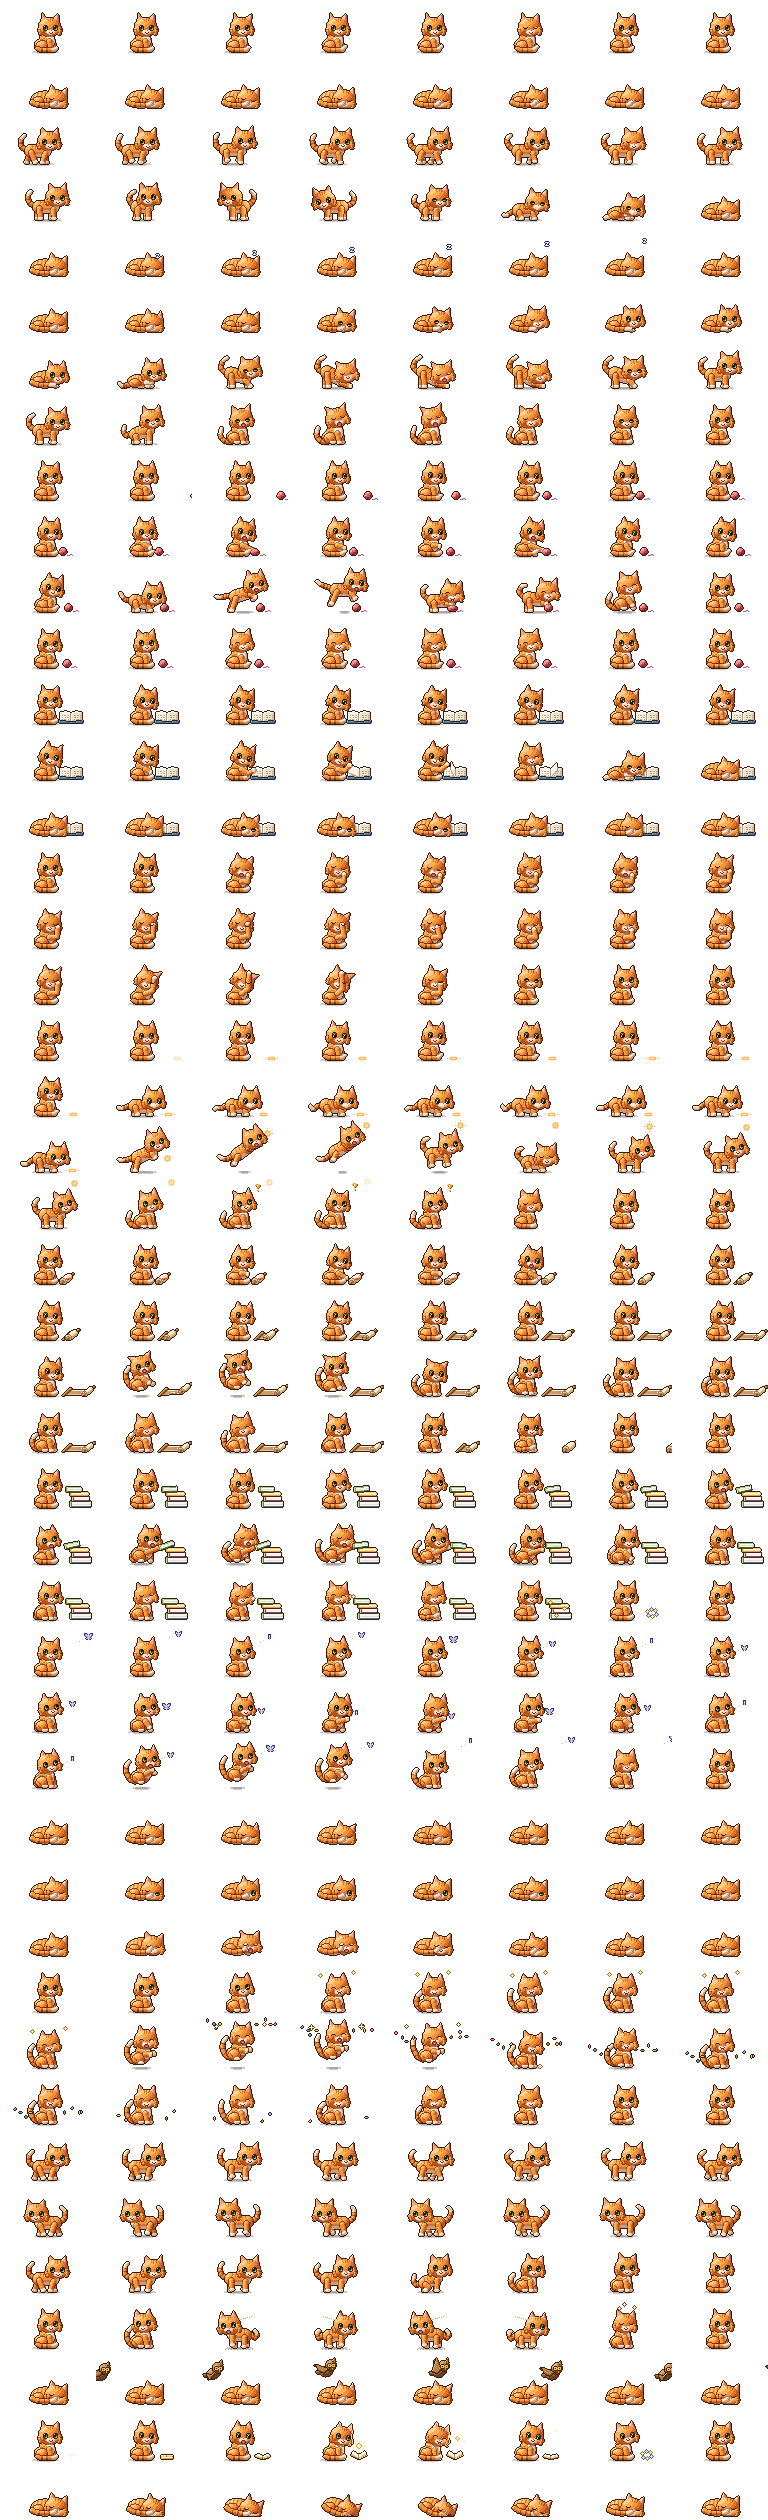
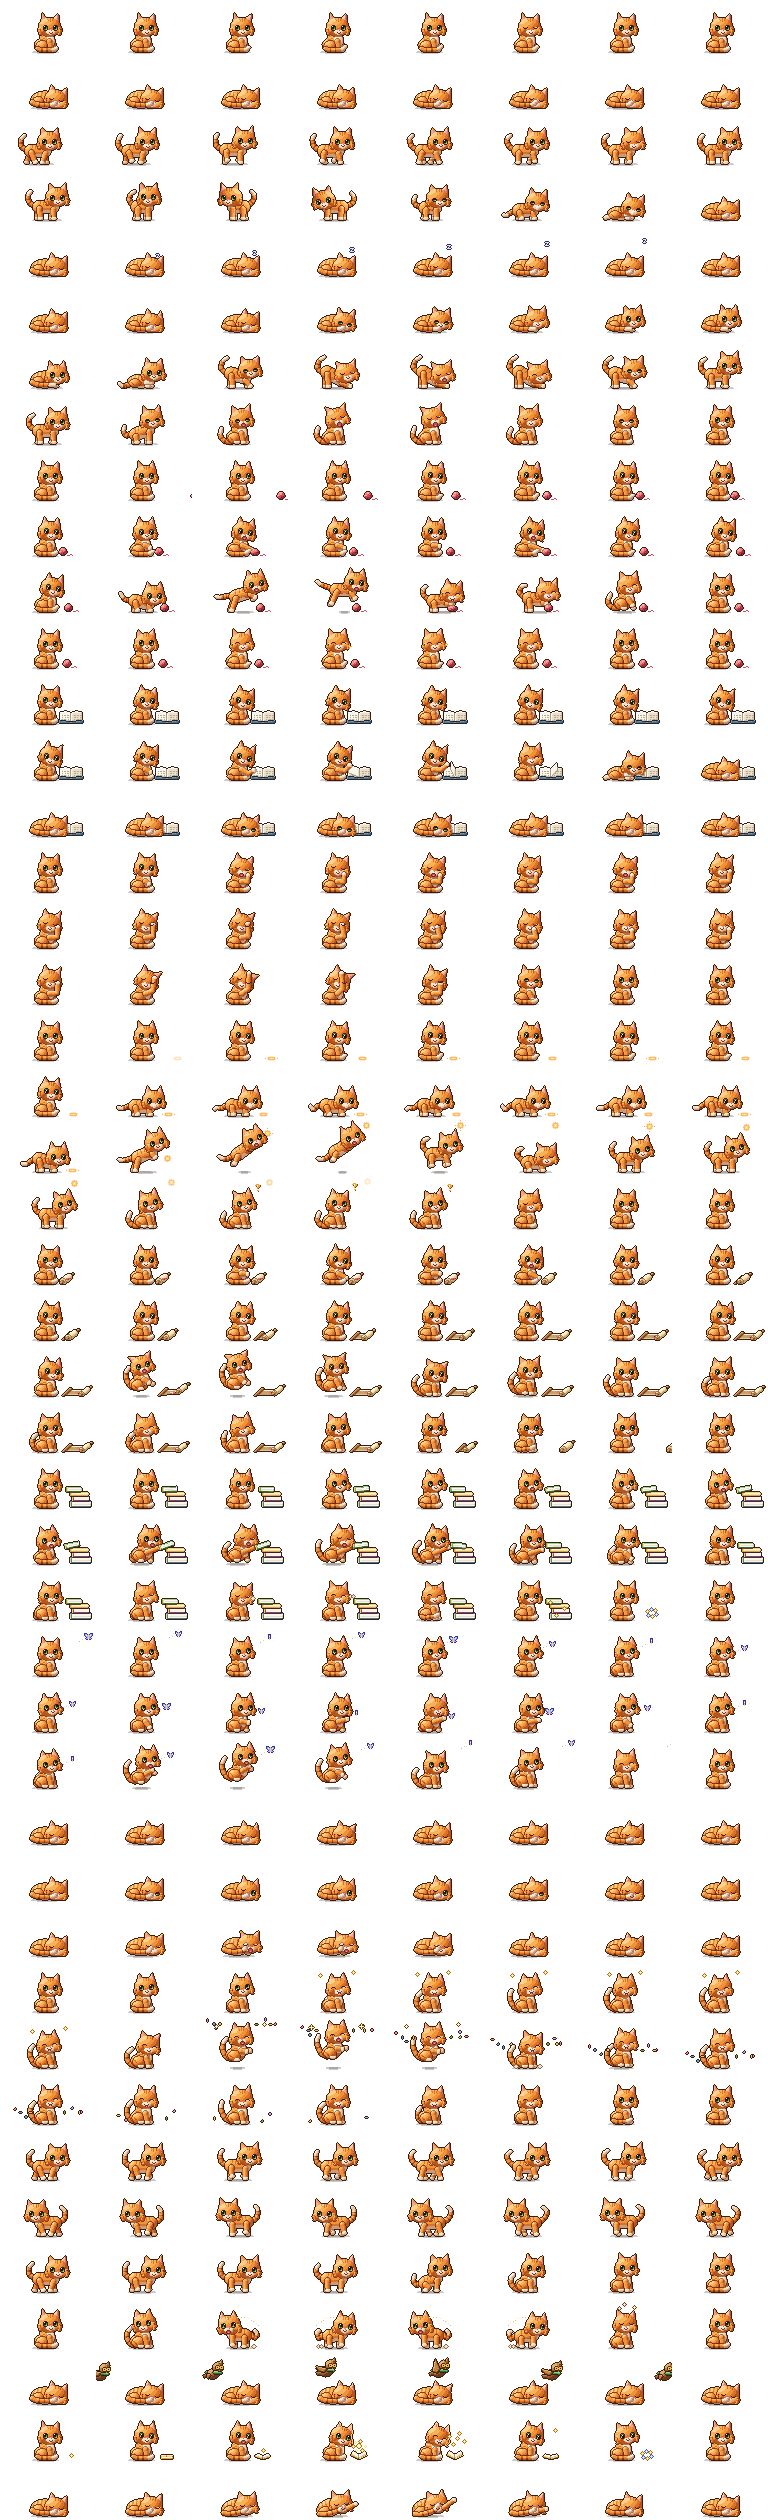
Gato Aventureiro: as 12 cenas e os 4 segredos desenhados; sombra do gato deitado no chão
Claude-Session: https://claude.ai/code/session_01GbKgzzZKzHQDKNkw1eCv9w

diff --git a/scripts/gato_cenas/parte_b.py b/scripts/gato_cenas/parte_b.py
@@ -355,13 +355,13 @@ def _pose_perg_toca(k):
         dict(olhar=olhar, cab_ang=4, orelhas=(-10, -10), inclina=1),
     ][k]
     rolo = [0, 0, 0, 1.0, 1.0, 2.0, 3.5, 5.5][k]
-    perg = dict(x_esq=ROLO_X, x_rolo=ROLO_X + rolo, r=3.4 - 0.9 * min(rolo / 21.6, 1), fita=k < 5)
+    perg = dict(x_esq=ROLO_X, x_rolo=ROLO_X + rolo, r=3.4 - 0.9 * min(rolo / 18.8, 1), fita=k < 5)
     return gato, perg
 
 
 def _pose_perg_abre(k):
-    xs = [5.5, 8.0, 11.5, 15.0, 18.0, 20.0, 21.2, 21.6][k]
-    r = 3.4 - 0.9 * min(xs / 21.6, 1)
+    xs = [5.5, 7.5, 10.5, 13.5, 16.0, 17.6, 18.4, 18.8][k]
+    r = 3.4 - 0.9 * min(xs / 18.8, 1)
     vira = [0, 0.2, 0.4, 0.5, 0.6, 0.6, 0.6, 0.6][k]
     gato = dict(olhar=(1, 1), cab_ang=4, orelhas=(-10, -10), inclina=1 + 0.5 * (k > 2), vira=vira)
     if k == 0:
@@ -372,7 +372,7 @@ def _pose_perg_abre(k):
 def _pose_perg_pula(k):
     alt = [0, 5.5, 7.0, 4.5, 0.0, 1.2, 0.0, 0.0][k]
     sobe = [0, 3.0, 1.0, 0.0, 0.0, 0.0, 0.0, 0.0][k]
-    xr = ROLO_X + [21.6, 22.8, 22.4, 22.0, 22.0, 22.0, 22.0, 22.0][k]
+    xr = ROLO_X + [18.8, 20.0, 19.6, 19.2, 19.2, 19.2, 19.2, 19.2][k]
     perg = dict(x_esq=ROLO_X, x_rolo=xr, r=2.5, fita=False, sobe=sobe)
     if k == 0:
         return _pose_perg_abre(7)[0], perg
@@ -396,7 +396,7 @@ def _pose_perg_pula(k):
 def _pose_perg_senta(k):
     if k == 0:
         return _pose_perg_pula(7)
-    perg_aberto = dict(x_esq=ROLO_X, x_rolo=ROLO_X + 22.0, r=2.5, fita=False)
+    perg_aberto = dict(x_esq=ROLO_X, x_rolo=ROLO_X + 19.2, r=2.5, fita=False)
     gato = [
         None,
         dict(cab_ang=-7, olhos="feliz", respira=1.0, cauda_u=0.8, cauda_alta=0.9, cauda_w=0.8, orelhas=(-4, -4)),
@@ -408,8 +408,8 @@ def _pose_perg_senta(k):
         {},
     ][k]
     perg = [None, perg_aberto, perg_aberto, perg_aberto,
-            dict(x_esq=ROLO_X + 10, x_rolo=ROLO_X + 22.0, r=2.5, fita=False),
-            dict(x_esq=ROLO_X + 23.0, x_rolo=ROLO_X + 23.0, r=3.4, fita=False),
+            dict(x_esq=ROLO_X + 10, x_rolo=ROLO_X + 19.2, r=2.5, fita=False),
+            dict(x_esq=ROLO_X + 20.2, x_rolo=ROLO_X + 20.2, r=3.4, fita=False),
             dict(x_esq=ROLO_X + 31, x_rolo=ROLO_X + 31, r=3.4, fita=False),
             None][k]
     return gato, perg
@@ -543,7 +543,7 @@ def _borb_pata(k):
 def _borb_salta(k):
     if k == 0:
         return _borb_pata(7)
-    traj = [None, (74, 18), (78, 12), (82, 8), (86, 5), (91, 3), (97, 2), None]
+    traj = [None, (74, 18), (78, 13), (82, 9), (86, 7), (91, 6), (100, 5), None]
     alt = [0, 4.0, 7.0, 5.5, 0.0, 0.8, 0.0, 0.0][k]
     gato = [
         None,
@@ -597,7 +597,6 @@ def cochilo_olho(t, k):
 def cochilo_ajeita(t, k):
     if k in (0, 7):
         return deitado(t)
-    c0 = B.repouso_deitado.__defaults__  # noqa: F841 (só para lembrar: cauda padrão vem do repouso)
     cauda_base = ((-14.5, -5.0), (-10.0, -3.0), (-2.0, -2.6), (4.5, -2.8), (8.5, -4.6))
     cauda_solta = ((-14.5, -5.0), (-10.0, -3.0), (-2.0, -3.0), (5.0, -4.6), (7.0, -9.5))
     u = [0, 0.5, 1.0, 1.0, 0.6, 0.2, 0.0, 0][k]
@@ -648,11 +647,14 @@ def festa_pula(t, k):
     if k == 0:
         festa_percebe(t, 7)
         return
-    alt = [0, 3.5, 7.5, 9.0, 6.0, 0.0, 1.2, 0.0][k]
+    alt = [0, 0.0, 6.5, 9.0, 6.5, 0.0, 1.2, 0.0][k]
     p = dict(dy=-alt, olhos="feliz", boca="aberta", orelhas=(-6, -6), cab_ang=3 * math.sin(k * 1.4),
              cauda_u=1.0, cauda_alta=1.4 if alt > 3 else 1.0, cauda_w=math.sin(k * 1.3))
-    if 1 <= k <= 4:
-        p.update(pata_perto=(3.0, -8.0), pata_longe=(3.5, -9.0))
+    if k == 1:   # antecipação: encolhe antes do pulo
+        p.update(inclina=6, cab=(3.0, -22.8), respira=0.0, boca="w", orelhas=(8, 8), cauda_alta=0.6,
+                 pata_perto=(1.0, 0.0))
+    if 2 <= k <= 4:
+        p.update(pata_perto=(3.0, -8.0), pata_longe=(3.5, -9.0), inclina=-2)
     if k == 5:
         p.update(inclina=4, cab=(2.8, -23.0), respira=0.0, boca="feliz", orelhas=(6, 6))
     if k >= 6:
@@ -761,8 +763,12 @@ def segredo_cauda(t, k):
         em_pe(t, 47.0 if not esp else 47.0, p, espelho=esp)
         # riscos de giro (arco claro em cima e embaixo)
         lado = -1 if esp else 1
-        _risco(t, [(47 + lado * i, 23 - abs(i) // 4) for i in range(-12, 13, 2)])
-        _risco(t, [(47 - lado * i, 53) for i in range(-14, 15, 3)], "#c8a27a")
+        # arco de movimento do lado de onde a cabeça veio (meia volta, 1 px) e poeirinha nos pés
+        for i in range(14):
+            a = math.pi * (0.15 + 0.7 * i / 13)
+            t.px(47 - lado * 21 * math.cos(a) * 0.0 + lado * 21 * math.cos(a), 36 - 15 * math.sin(a),
+                 "#f2b56a" if i % 3 else "#ffe0a8")
+        poeira(t, 47 - lado * 15, 50, k % 2)
         return
     # 6: tonto (cabeça balançando, olhos fechados, estrelinhas rodando)
     sentado(t, olhos="fechado", boca="w", cab_ang=8, cab=(3.4, -24.0), inclina=-3, orelhas=(14, -6),

diff --git a/scripts/gato_cenas/base.py b/scripts/gato_cenas/base.py
@@ -18,6 +18,17 @@ X_PE = 46.5
 X_DEITA = 47.0
 G.CHAO = CHAO
 
+# O padrão de Tela.sombra (y) ficou preso no chão de 45 quando G foi carregado; aqui ele segue o chão novo, para os
+# corpos de G (enrolado, em pé) terem a sombra no chão das cenas e não escondida embaixo do corpo.
+_sombra_original = G.Tela.sombra
+
+
+def _sombra_no_chao(self, cx, larg, y=None, **kw):
+    return _sombra_original(self, cx, larg, y=G.CHAO + 0.2 if y is None or y == 45.2 else y, **kw)
+
+
+G.Tela.sombra = _sombra_no_chao
+
 
 def tela() -> "G.Tela":
     return G.Tela(QW, QH)
